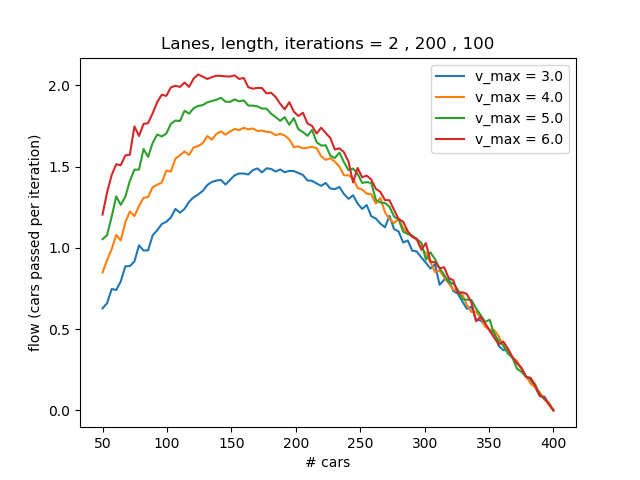
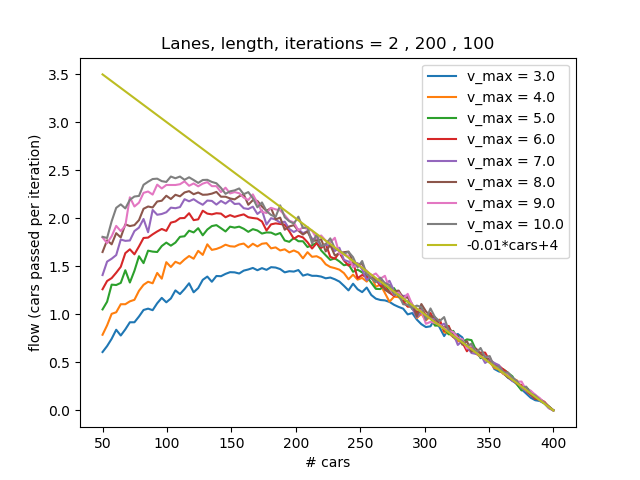
Added the limit line

diff --git a/highway_speed.py b/highway_speed.py
@@ -203,6 +203,9 @@ def Analyze_diferrent_speeds(lanes, length, iterations, v_begin, v_end, precisio
 				avg_flows.append(highWay.passes/iterations)
 			flows.append(np.mean(avg_flows))
 		plt.plot(cars, flows, label = 'v_max = '+str(i))
+
+	limit_function = [-0.01*j + 4 for j in cars]
+	plt.plot(cars, limit_function, label = str(-0.01)+"*cars"+str("+4"))
 	plt.title('Lanes, length, iterations = ' +str(lanes) + ' , ' +str(length) + ' , ' +str(iterations))
 	plt.legend(loc='best')
 	plt.xlabel('# cars')
@@ -233,7 +236,8 @@ if __name__ == "__main__":
 
 	lanes, length, iterations, v_max = 2, 200, 100, 3
 
-	'''Please note that this function migth take 15 minutes to run!!
+	'''Please note that the following functions migth take 15 minutes to run!!
 	'''
-	# Analyze_diferrent_speeds(lanes, length, iterations, 3, 10, precision = 5)
-	Analyze_different_lanes(length, iterations, v_max, 2, 5, precision = 5)
+
+	Analyze_diferrent_speeds(lanes, length, iterations, 3, 10, precision = 5)
+	# Analyze_different_lanes(length, iterations, v_max, 2, 5, precision = 5)
